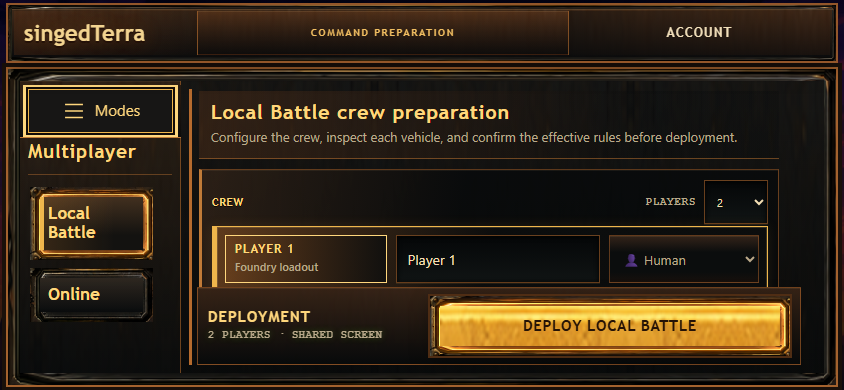
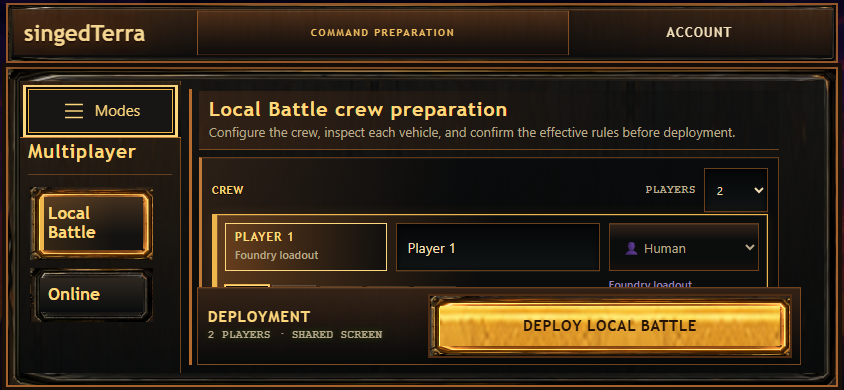
fix(command-center): bound Pixel landscape setup
Apply the Local/Garage safety margin in the actual 802x293 compact landscape branch and strengthen the retained geometry contracts.

Refresh the provenance-bound compact evidence and record the exact hosted diagnosis.

Changed region(s): [[0.2156, 0.2462, 0.9242, 0.7385]]

diff --git a/e2e/pregame-command-center.spec.ts b/e2e/pregame-command-center.spec.ts
@@ -164,7 +164,7 @@ async function assertLocalPreparationGeometry(
   await expect(deploy).toHaveCount(1);
   await expect(deploy).toBeInViewport({ ratio: 1 });
   if (geometry.viewport.width >= 390) {
-    await expect(workspace.locator('[data-crew-seat="player-1"]')).toBeInViewport({ ratio: 0.35 });
+    await expect(workspace.locator('[data-crew-seat="player-1"]')).toBeInViewport({ ratio: 0.36 });
   } else {
     await expect(workspace.locator('.lobby-local-preparation__header')).toBeInViewport({ ratio: 0.75 });
     const firstSeatFold = await workspace.evaluate((root) => {

diff --git a/e2e/garage-spotlight.spec.ts b/e2e/garage-spotlight.spec.ts
@@ -122,6 +122,10 @@ async function expectGarageLayout(page: Page): Promise<void> {
   for (const selector of spotlightSelectors) {
     const box = await visibleLayoutBox(page.locator(selector));
     expectContained(box, bay, selector);
+    if (selector === '.lobby-preview__spotlight') {
+      expect(bay.bottom - box.bottom, 'spotlight bottom safety margin')
+        .toBeGreaterThanOrEqual(4);
+    }
   }
 
   // Local preparation now dedicates this surface to the selected vehicle. The

diff --git a/client/src/ui/commandCenter/CommandCenter.css b/client/src/ui/commandCenter/CommandCenter.css
@@ -2602,6 +2602,19 @@
     overflow-y: auto;
   }
 
+  #lobby .multiplayer-command__local-workspace .lobby-local-preparation__header {
+    gap: 3px;
+    padding: 7px 10px 8px;
+  }
+
+  #lobby .multiplayer-command__local-workspace .lobby-local-preparation__content {
+    margin-top: 7px;
+  }
+
+  #lobby .multiplayer-command__local-workspace .lobby-preview__spotlight {
+    top: 32px;
+  }
+
   #lobby .multiplayer-command__online-workspace {
     min-height: 0;
     height: 100%;

diff --git a/.codearbiter/sprint-log.md b/.codearbiter/sprint-log.md
@@ -4812,3 +4812,8 @@ The fresh R07 review found no remaining CPU defect but identified a supported sa
 - Kept both assertions intact. Moved the narrow selected-vehicle spotlight four pixels upward and tightened the narrow Local briefing header by six vertical pixels so Linux font metrics retain the selected tank within its inspection bay and at least 35 percent of Player 1 in the initial fold.
 - Fresh production proof: build/typecheck/ST1 passed; both exact failed pixel-touch cases passed; the 32-record provenance-bound Local/Garage evidence packet was regenerated and its 390x844 and 844x390 captures were visually inspected.
 - T32 remains PENDING until the corrected exact PR head is green in hosted CI. G02 remains PENDING for maintainer visual acceptance. No merge or deployment was performed.
+## 2026-09-18 Command Center T32 short-landscape correction - confidence: high - intent: apply Linux safety margins to the actual Pixel 5 landscape branch
+- Hosted run 35381210225 proved the first correction targeted the wrong responsive branch: both failures repeated unchanged at the Pixel 5 landscape profile (802x293), while every other CI job passed.
+- Trace evidence confirmed the exact device viewport and is-compact state. Added the safety margin to the max-height landscape branch, moved the selected-vehicle spotlight eight pixels upward there, and compacted the Local briefing by twelve pixels without removing content or changing scroll ownership.
+- Strengthened the retained browser contracts: the spotlight now requires a four-pixel bottom safety margin and the first crew seat requires a 0.36 viewport ratio. The exact two-test Pixel profile, production build/typecheck/ST1, and regenerated 32-record evidence packet pass locally; 844x390 default, modified, and Garage captures were visually inspected.
+- T32 remains PENDING until the corrected exact PR head is green in hosted CI. G02 remains PENDING for maintainer visual acceptance. No merge or deployment was performed.

diff --git a/.codearbiter/evidence/command-center-workspace-finish/REVIEW.md b/.codearbiter/evidence/command-center-workspace-finish/REVIEW.md
@@ -1,12 +1,12 @@
 # Command Center workspace finish evidence
 
-- HEAD: `02d3f70e28408d2bb66545a70e90b6c5b4ce0579`
+- HEAD: `aa4106a1cfd89bb32836de067ad1ac433b3afb2e`
 - Merge base with `origin/main`: `e332f3c2d1ddb9c0b549b7e34c5906872308becb`
 - Branch: `codex/command-center-launcher`
 - Source dirty at capture: `true`
[6 lines of base64/hex data omitted]
 - Browser command: `E2E_LIVE_URL=http://localhost:4174 COMMAND_CENTER_WORKSPACE_EVIDENCE_DIR=.codearbiter/evidence/command-center-workspace-finish npx playwright test e2e/pregame-command-center.spec.ts --project=desktop-fine --grep "retains native Local"`
 
 | State | Viewport | DPR | Zoom/reflow | Capture |
